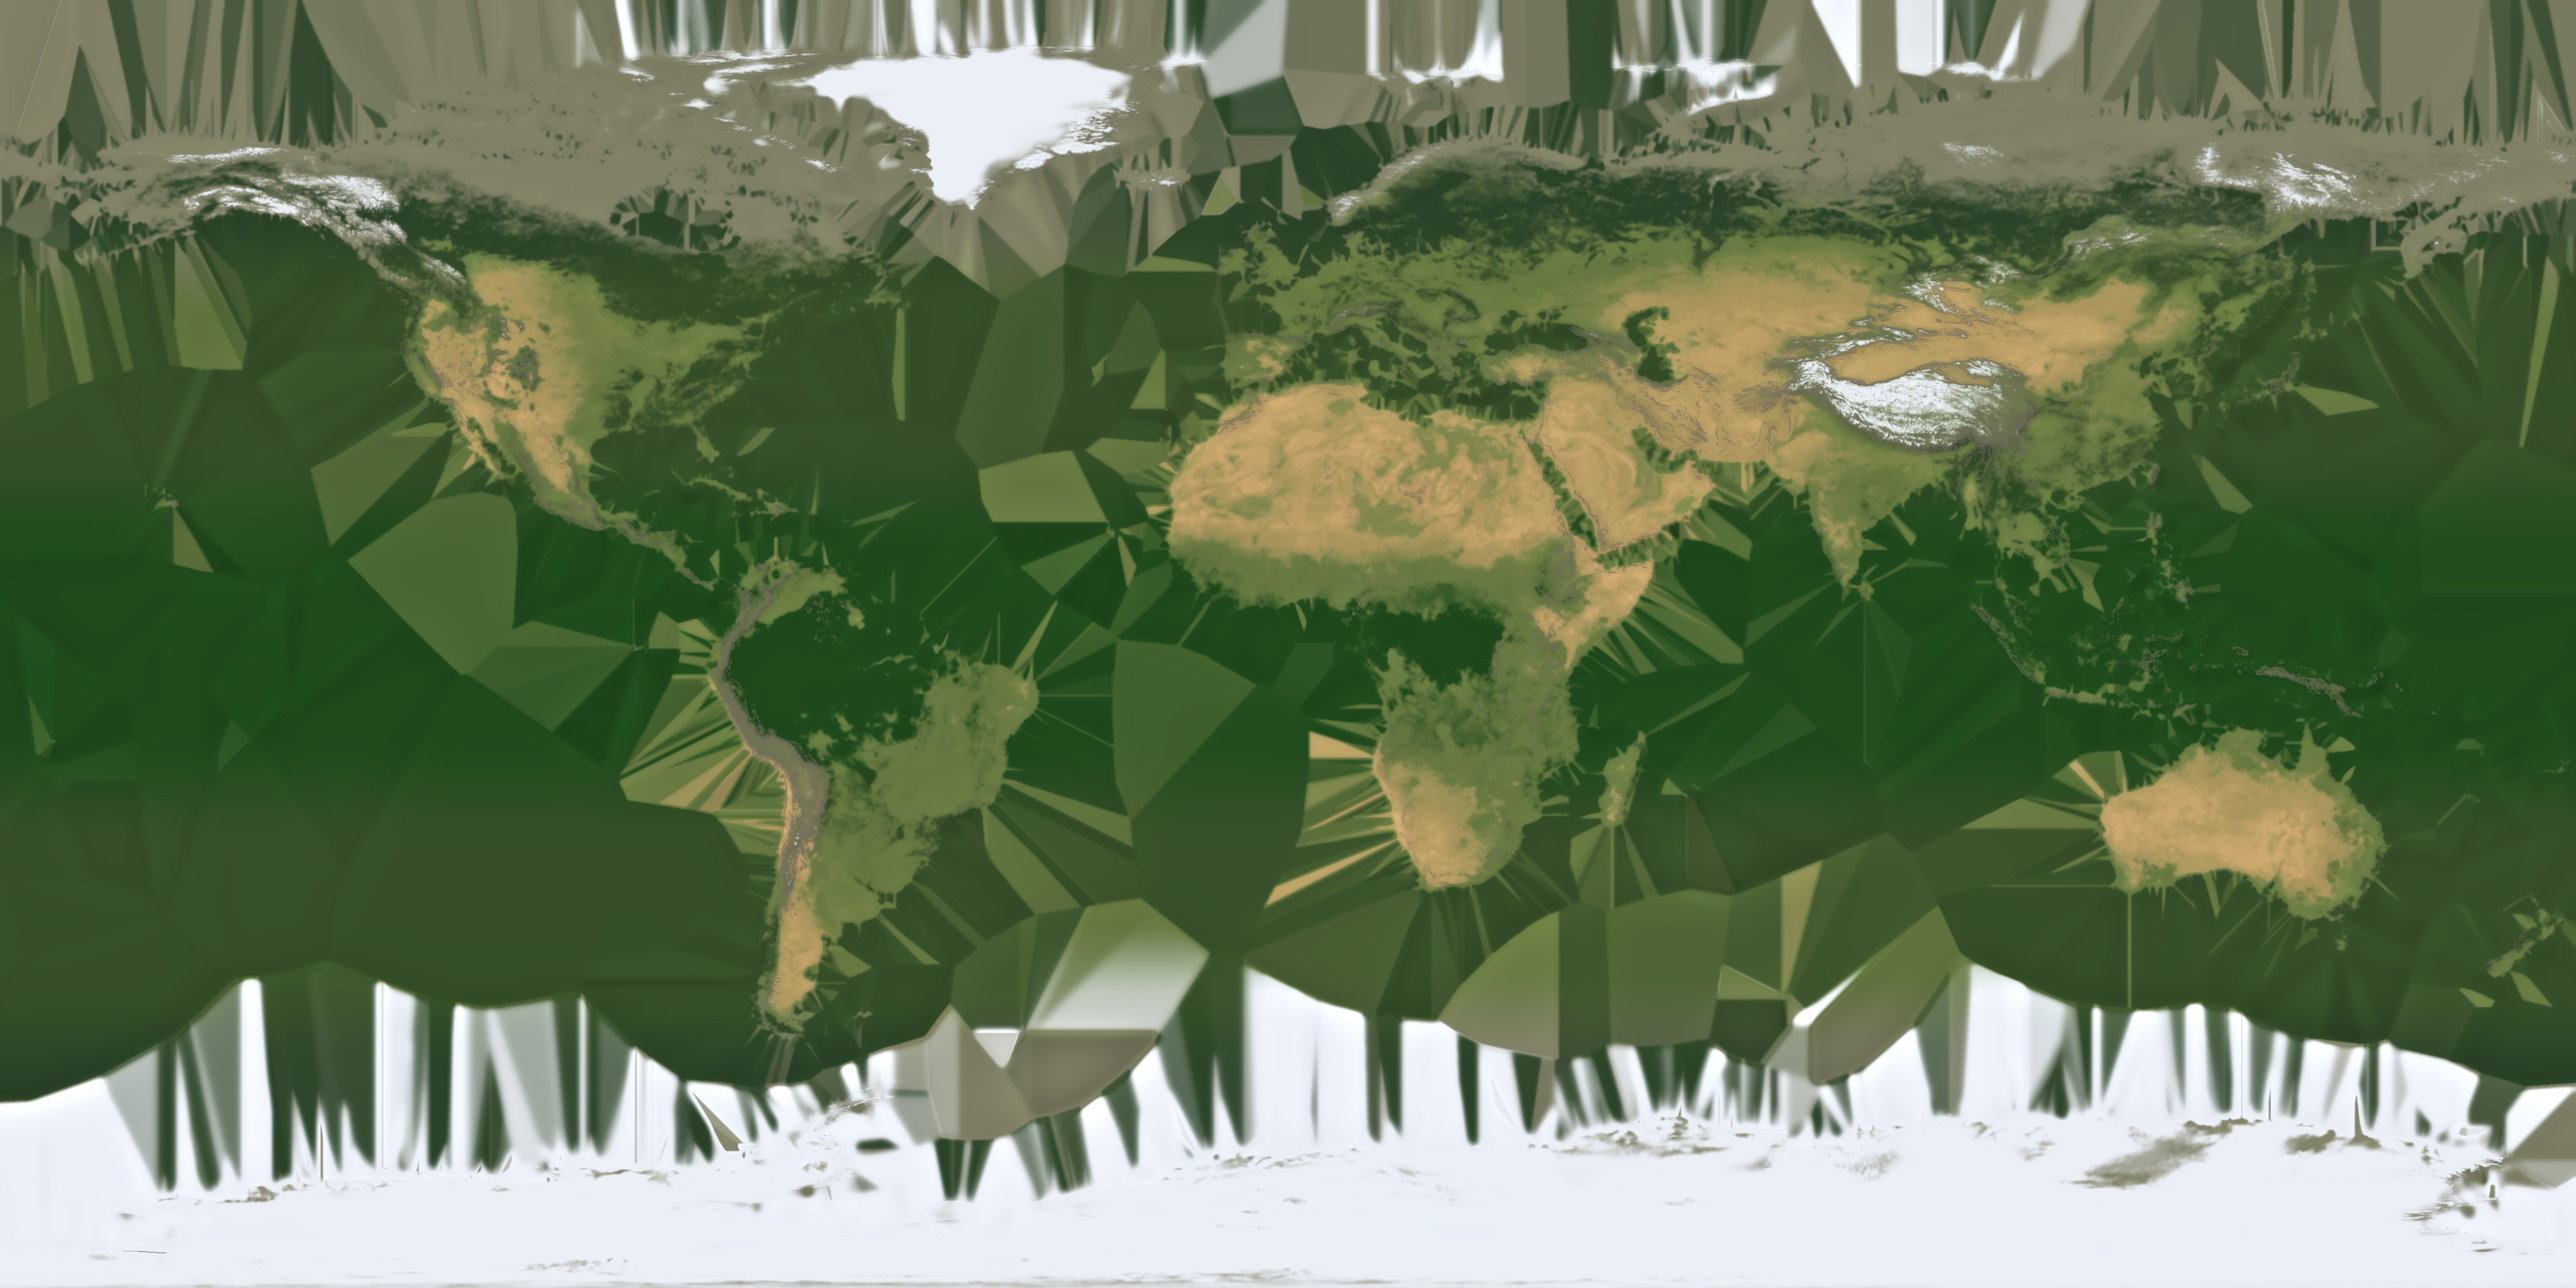
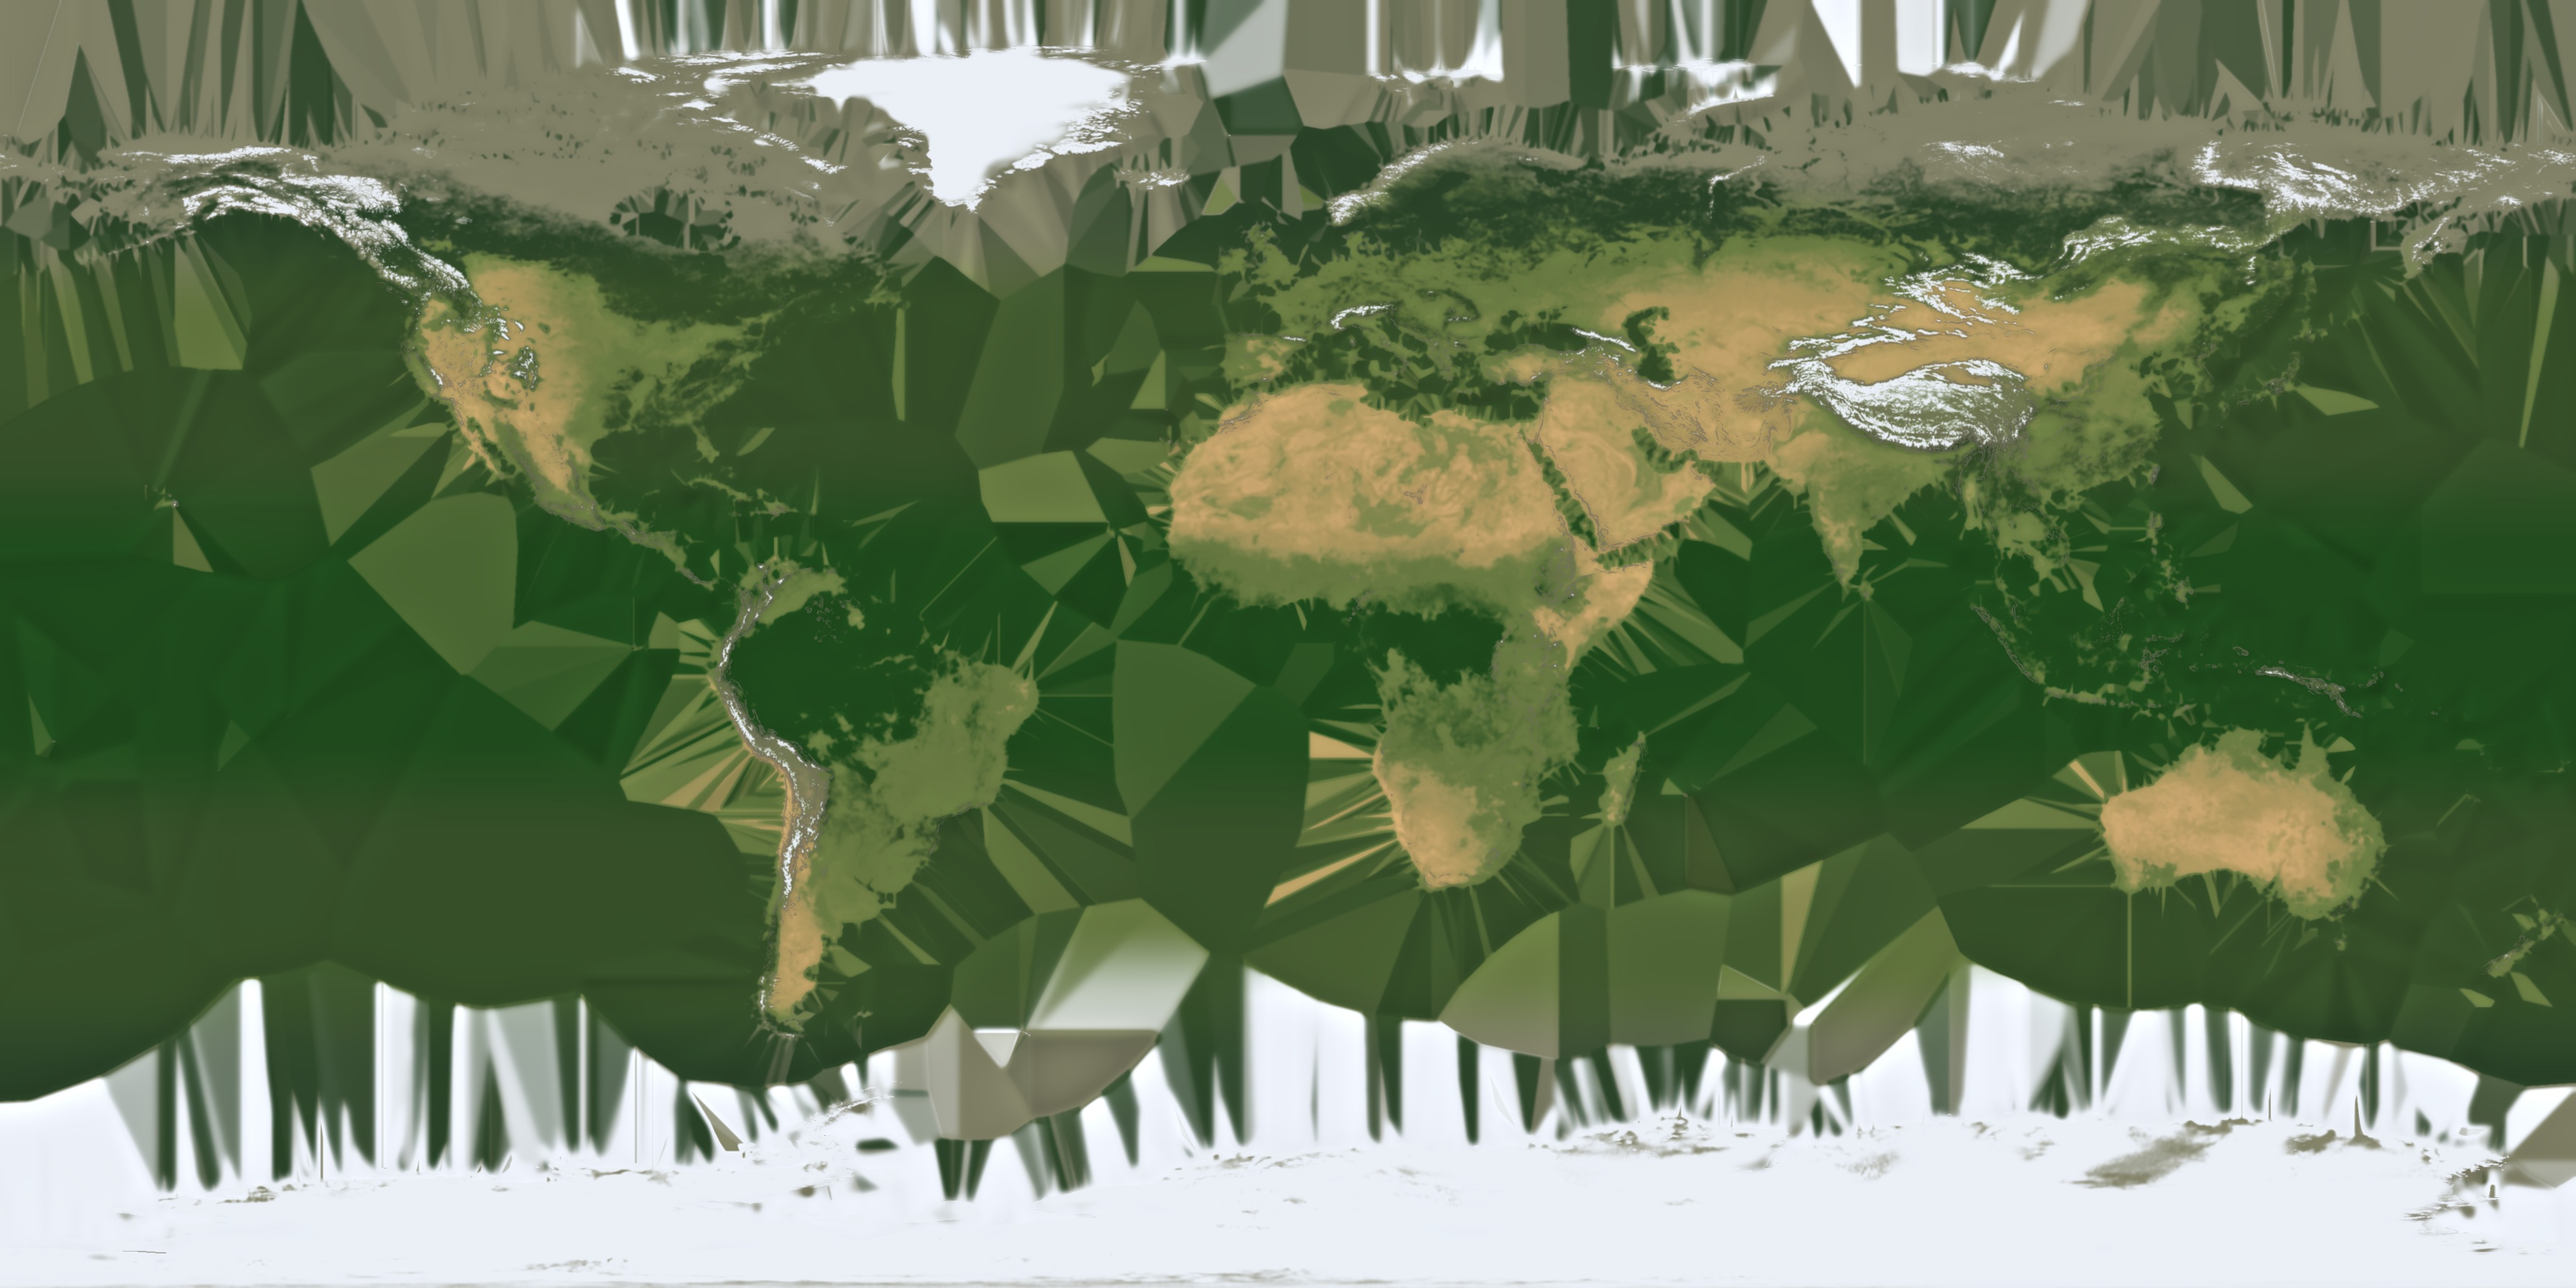
map: prominence-based snow, stronger political tint at region zoom, interact harness pixel-change metric

diff --git a/pipeline/build_map_visuals.py b/pipeline/build_map_visuals.py
@@ -151,8 +151,10 @@ alb = alb * np.clip(var, 0.85, 1.15)
 forest = ndimage.gaussian_filter(smoothstep(0.03, 0.11, gr) * (1 - w_ice), 1.0)
 forest = np.clip(forest * 1.2, 0, 1); forest[~land] = 0
 glacier = w_ice
-snowline = 4.9 - 4.3 * smoothstep(18.0, 66.0, alat)
-snow = np.maximum(glacier, smoothstep(snowline - 0.2, snowline + 0.9, land_e) * smoothstep(0.02, 0.25, slope + 0.05))
+snowline = 6.0 - 5.1 * smoothstep(18.0, 66.0, alat)
+prom = land_e - ndimage.gaussian_filter(land_e, 10.0)      # local prominence: peaks snow, high plateaus mostly don't
+snow_e = land_e + 1.5 * np.maximum(prom, 0.0)
+snow = np.maximum(glacier, smoothstep(snowline - 0.2, snowline + 0.9, snow_e) * smoothstep(0.02, 0.25, slope + 0.05))
 snow = np.clip(ndimage.gaussian_filter(snow, 0.8), 0, 1); snow[~land] = 0
 rock = np.clip(smoothstep(0.5, 1.6, slope) * 0.55 + smoothstep(2.0, 4.0, land_e) * 0.45, 0, 0.8) * (1 - snow)
 rockc = col([0.45, 0.42, 0.38])
